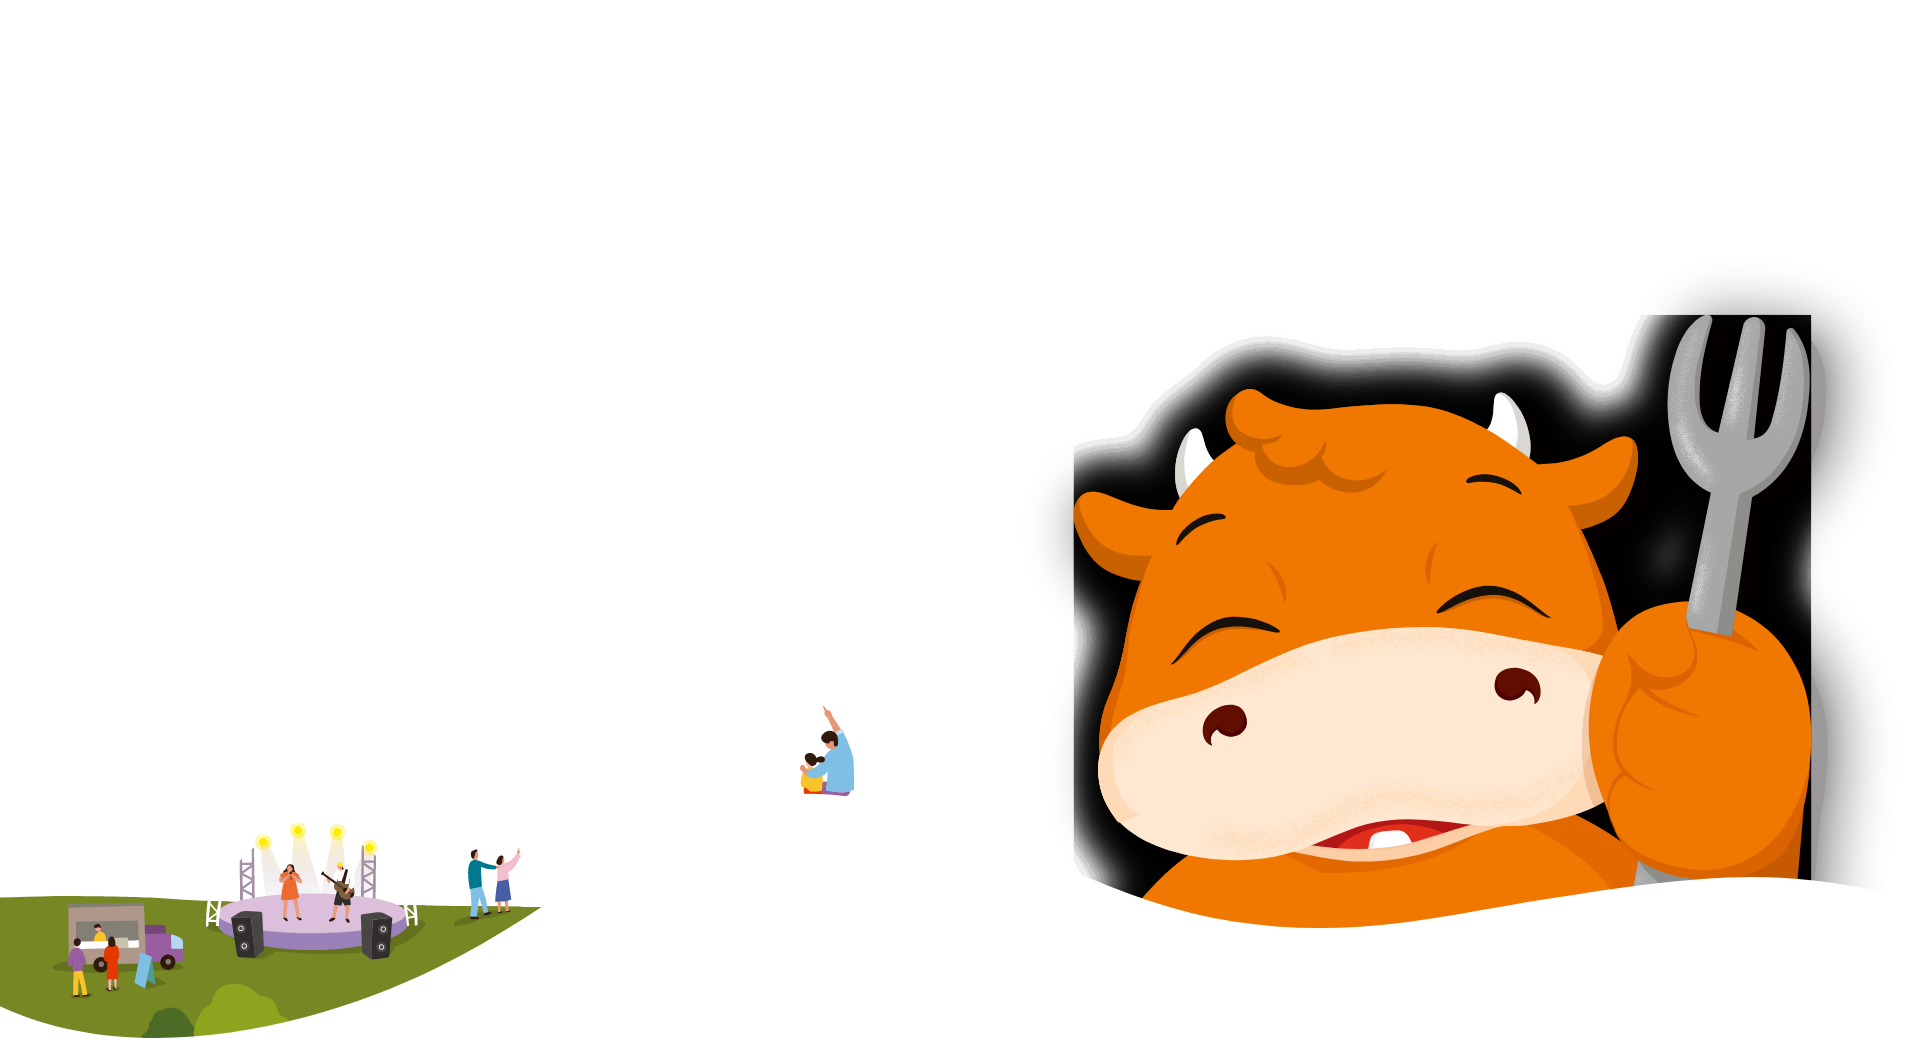
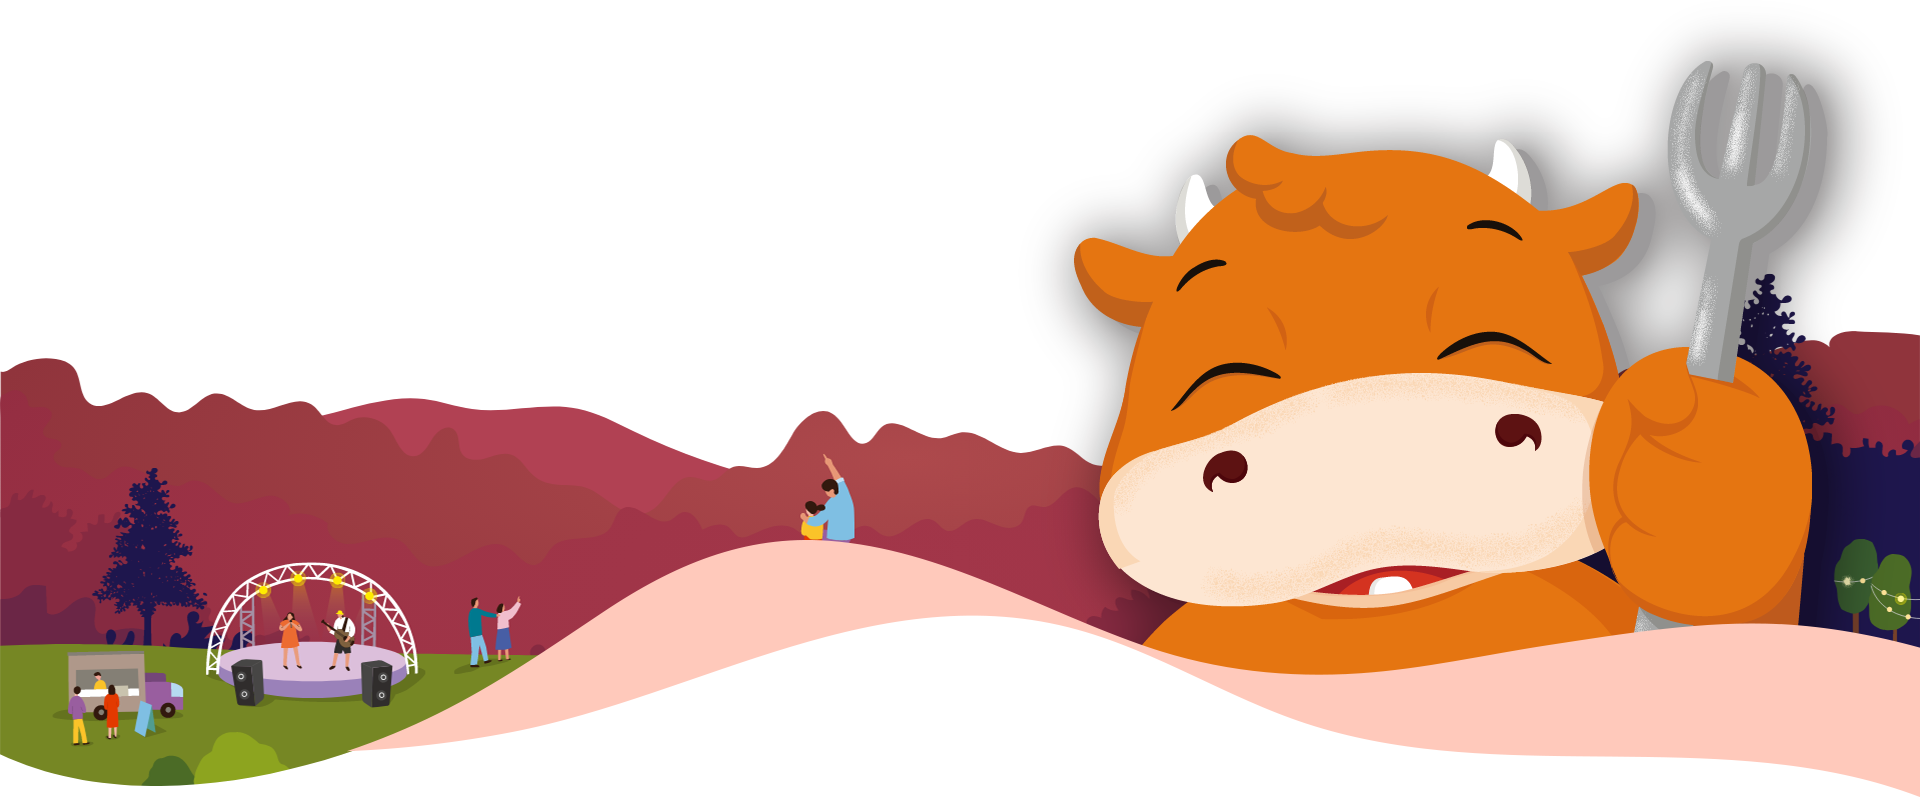
메인-visulal pc character image 추가

diff --git a/src/ui/components/Visual.tsx b/src/ui/components/Visual.tsx
@@ -21,8 +21,8 @@ export default function Visual(props: VisualProps) {
     text-align: center;
 
     background: url("/images/mobile/visual-bg.png");
-    background-repeat: no-repeat;
     background-position: center center;
+    background-repeat: no-repeat;
     background-size: cover;
 
     &::after {
@@ -34,8 +34,8 @@ export default function Visual(props: VisualProps) {
       width: 100%;
       height: 100%;
       background: url("/images/mobile/characters.png");
-      background-repeat: no-repeat;
       background-position: center center;
+      background-repeat: no-repeat;
       background-size: cover;
     }
     h2 {
@@ -47,7 +47,7 @@ export default function Visual(props: VisualProps) {
       font-size: 16px;
     }
 
-    @media (min-width: ${theme.breakpoints.desktop}) {
+    @media (min-width: ${theme.breakpoints.tablet}) {
       background: url("/images/pc/visual-bg.png");
       background-repeat: no-repeat;
       background-position: center center;
@@ -61,13 +61,26 @@ export default function Visual(props: VisualProps) {
         padding-top: 13px;
         font-size: 30px;
       }
-
       &::after {
-        display: none;
-        background-image: url("/images/pc/bg-1.png"), url("/images/pc/bg-0.png");
-        background-repeat: no-repeat, no-repeat;
-        background-position: center, center;
-        background-size: cover, cover;
+        background: url("/images/pc/characters.png");
+        background-repeat: no-repeat;
+        background-position: center bottom;
+        background-size: contain;
+      }
+      &::before {
+        display: block;
+        content: "";
+        position: absolute;
+        bottom: 0;
+        left: 0;
+        width: 100%;
+        height: 12vh;
+        background: ${theme.colors.white.text};
+      }
+      @media (min-width: ${theme.breakpoints.desktop}) {
+        &::before {
+          height: 18.5vh;
+        }
       }
     }
   `;

diff --git a/src/styles/theme.ts b/src/styles/theme.ts
@@ -17,6 +17,7 @@ const theme = {
     mobile: "768px",
     tablet: "1024px",
     desktop: "1280px",
+    wide: "1536px",
   },
 };
 
